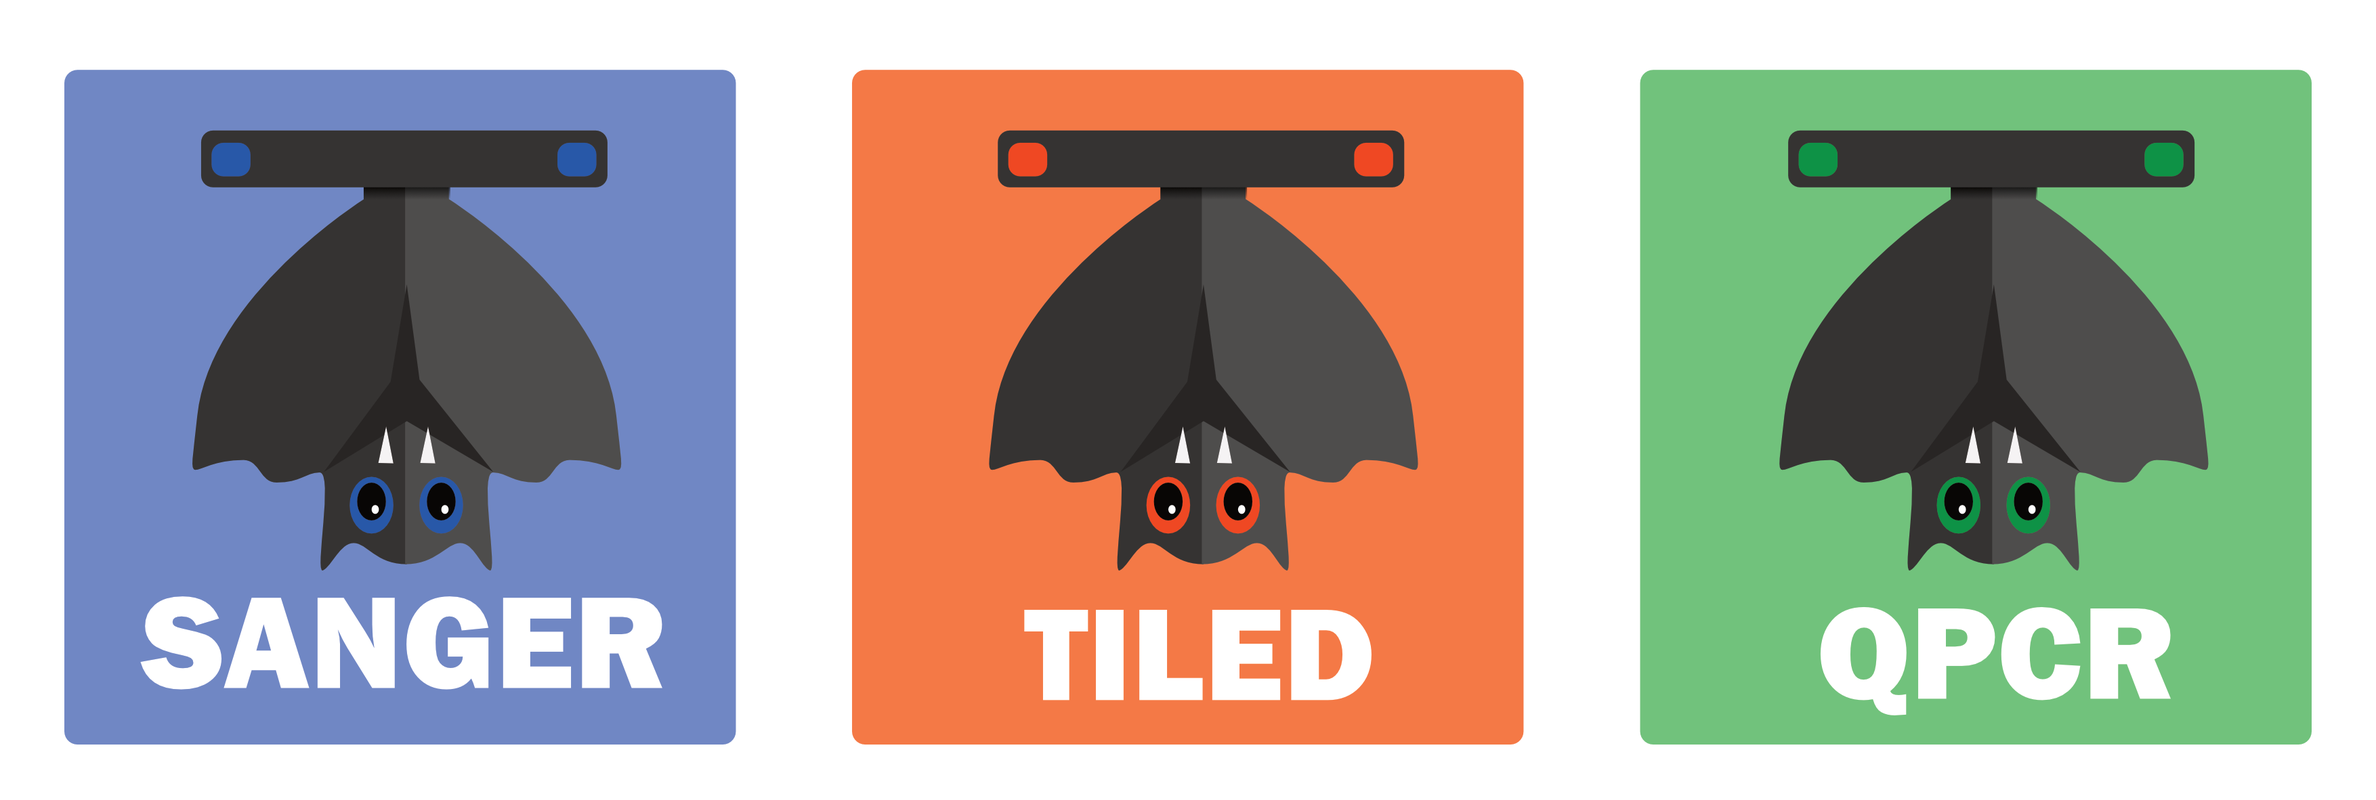
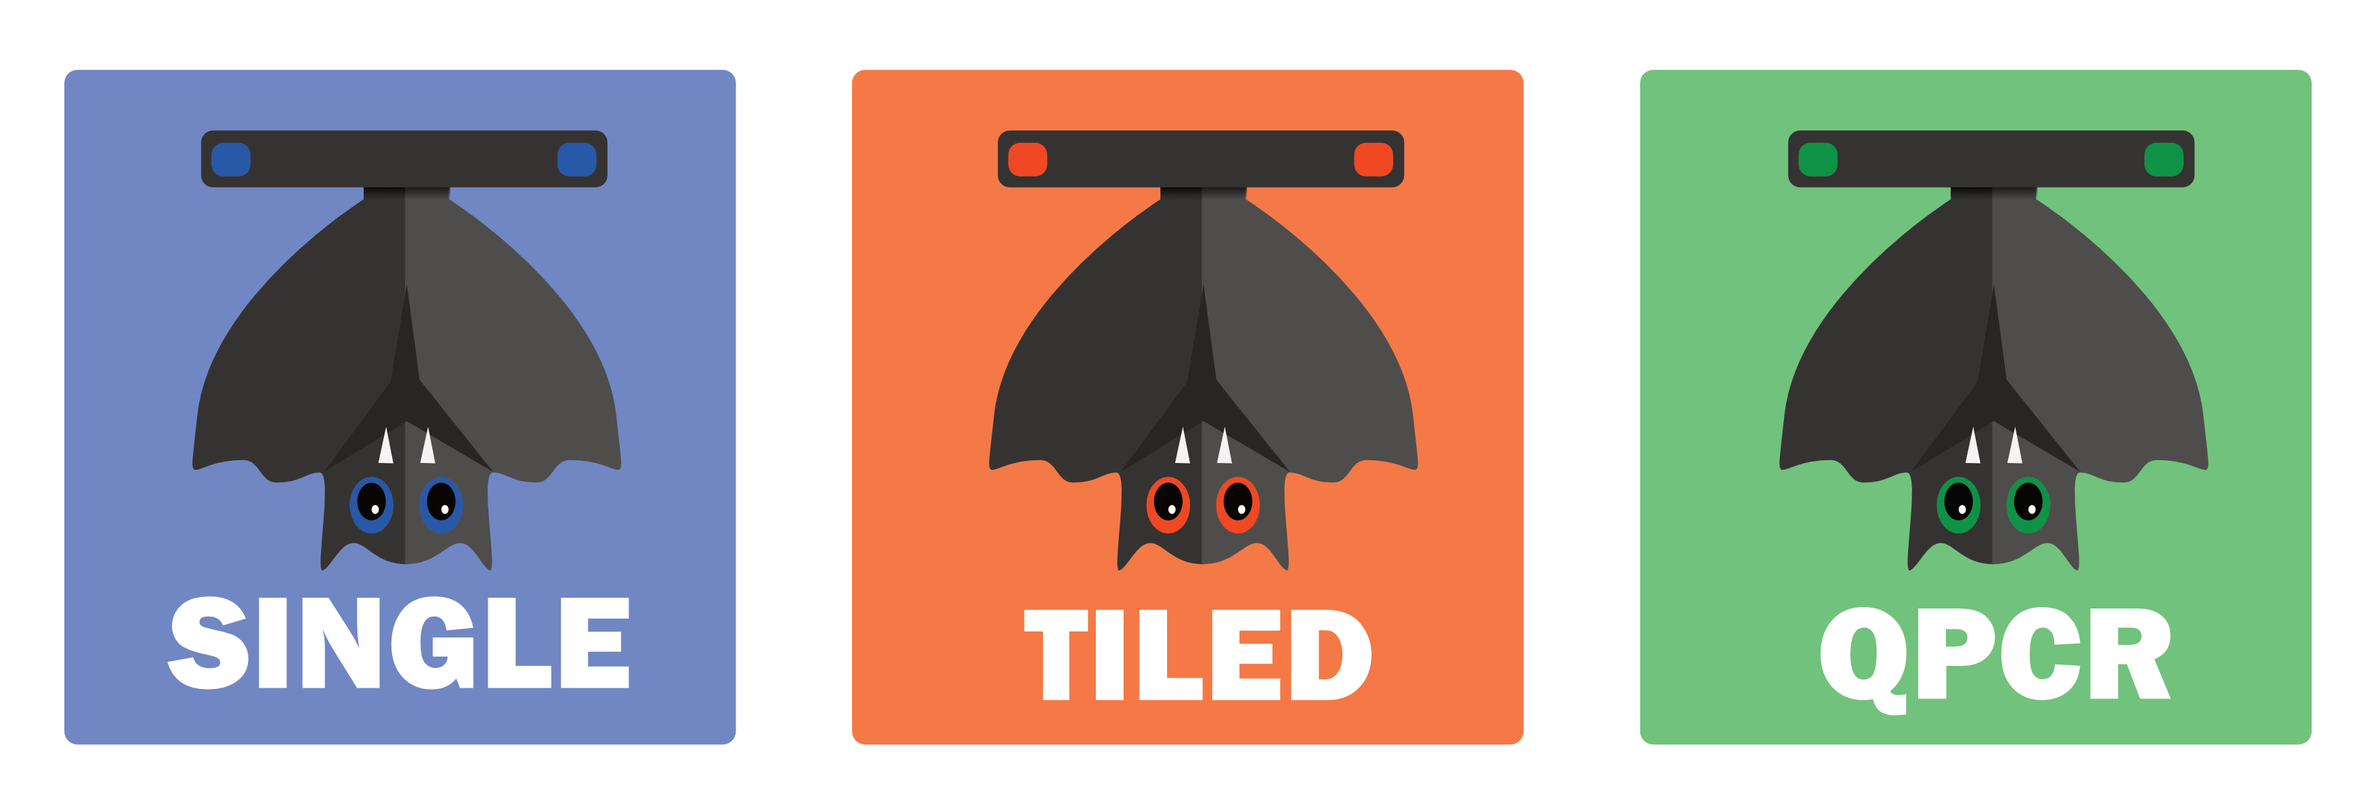
changed sanger to single (#25)

Changed region(s): [[0.0621, 0.731, 0.2796, 0.8832]]

diff --git a/varvamp/command.py b/varvamp/command.py
@@ -36,10 +36,10 @@ def get_args(sysargs):
         title="varvamp mode",
         dest="mode",
     )
-    SANGER_parser = mode_parser.add_parser(
-        "sanger",
-        help="design primers for sanger sequencing",
-        usage="varvamp sanger [optional arguments] <alignment> <output dir>"
+    SINGLE_parser = mode_parser.add_parser(
+        "single",
+        help="design primers for single amplicons",
+        usage="varvamp single [optional arguments] <alignment> <output dir>"
     )
     TILED_parser = mode_parser.add_parser(
         "tiled",
@@ -56,7 +56,7 @@ def get_args(sysargs):
         nargs=2,
         help="alignment file and dir to write results"
     )
-    for par in (SANGER_parser, TILED_parser, QPCR_parser):
+    for par in (SINGLE_parser, TILED_parser, QPCR_parser):
         par.add_argument(
             "-t",
             "--threshold",
@@ -89,7 +89,7 @@ def get_args(sysargs):
             type=int,
             default=1
         )
-    for par in (SANGER_parser, TILED_parser):
+    for par in (SINGLE_parser, TILED_parser):
         par.add_argument(
             "-ol",
             "--opt-length",
@@ -114,7 +114,7 @@ def get_args(sysargs):
         default=100,
         help="min overlap of the amplicons"
     )
-    SANGER_parser.add_argument(
+    SINGLE_parser.add_argument(
         "-n",
         "--report-n",
         type=int,
@@ -275,9 +275,9 @@ def shared_workflow(args, log_file):
     return alignment_cleaned, majority_consensus, ambiguous_consensus, primer_regions, left_primer_candidates, right_primer_candidates
 
 
-def sanger_and_tiled_shared_workflow(args, left_primer_candidates, right_primer_candidates, data_dir, log_file):
+def single_and_tiled_shared_workflow(args, left_primer_candidates, right_primer_candidates, data_dir, log_file):
     """
-    part of the workflow shared by the sanger and tiled mode
+    part of the workflow shared by the single and tiled mode
     """
 
     # find best primers and create primer dict
@@ -321,7 +321,7 @@ def sanger_and_tiled_shared_workflow(args, left_primer_candidates, right_primer_
             args.max_length,
             args.threads,
             log_file,
-            mode="sanger_tiled"
+            mode="single_tiled"
         )
     else:
         off_target_amplicons = []
@@ -329,12 +329,12 @@ def sanger_and_tiled_shared_workflow(args, left_primer_candidates, right_primer_
     return all_primers, amplicons, off_target_amplicons
 
 
-def sanger_workflow(args, amplicons, all_primers, log_file):
+def single_workflow(args, amplicons, all_primers, log_file):
     """
-    workflow part specific for sanger mode
+    workflow part specific for single mode
     """
 
-    amplicon_scheme = scheme.find_sanger_amplicons(amplicons, all_primers, args.report_n)
+    amplicon_scheme = scheme.find_single_amplicons(amplicons, all_primers, args.report_n)
     logging.varvamp_progress(
         log_file,
         progress=0.9,
@@ -503,17 +503,17 @@ def main(sysargs=sys.argv[1:]):
     reporting.write_fasta(data_dir, "majority_consensus", majority_consensus)
     reporting.write_fasta(results_dir, "ambiguous_consensus", ambiguous_consensus)
 
-    # SANGER/TILED mode
-    if args.mode == "tiled" or args.mode == "sanger":
-        all_primers, amplicons, off_target_amplicons = sanger_and_tiled_shared_workflow(
+    # SINGLE/TILED mode
+    if args.mode == "tiled" or args.mode == "single":
+        all_primers, amplicons, off_target_amplicons = single_and_tiled_shared_workflow(
             args,
             left_primer_candidates,
             right_primer_candidates,
             data_dir,
             log_file
         )
-        if args.mode == "sanger":
-            amplicon_scheme = sanger_workflow(
+        if args.mode == "single":
+            amplicon_scheme = single_workflow(
                 args,
                 amplicons,
                 all_primers,

diff --git a/varvamp/scripts/logging.py b/varvamp/scripts/logging.py
@@ -113,7 +113,7 @@ def raise_arg_errors(args, log_file):
                 log_file,
                 exit=True
             )
-    if args.mode in ("tiled", "sanger"):
+    if args.mode in ("tiled", "single"):
         if args.opt_length > args.max_length:
             raise_error(
                 "optimal length can not be higher than the maximum amplicon length.",
@@ -126,8 +126,8 @@ def raise_arg_errors(args, log_file):
                 log_file,
                 exit=True
             )
-    # SANGER specific warnings
-    if args.mode == "sanger":
+    # SINGLE specific warnings
+    if args.mode == "single":
         if args.report_n < 1:
             raise_error(
                 "number of reported amplicons cannot be below 1.",
@@ -252,7 +252,7 @@ def confirm_config(args, log_file):
 
     # check if all variables exists
     all_vars = [
-        # arg independent TILED, SANGER mode
+        # arg independent TILED, SINGLE mode
         (
             "PRIMER_TMP",
             "PRIMER_GC_RANGE",
@@ -512,7 +512,7 @@ def confirm_config(args, log_file):
             sep="\n",
             file=f
         )
-        if args.mode in ("tiled", "sanger"):
+        if args.mode in ("tiled", "single"):
             print(
                 f"AMPLICON_OPT_LENGTH = {args.opt_length}",
                 f"AMPLICON_MAX_LENGTH = {args.max_length}",
@@ -532,7 +532,7 @@ def confirm_config(args, log_file):
                 sep="\n",
                 file=f
             )
-        if args.mode == "sanger":
+        if args.mode == "single":
             print(
                 f"REPORT_N_AMPLICONS = {args.report_n}",
                 sep="\n",
@@ -553,7 +553,7 @@ def confirm_config(args, log_file):
         )
         for var in all_vars[0]:
             print(f"{var} = {var_dic[var]}", file=f)
-        if args.mode in ("tiled", "sanger"):
+        if args.mode in ("tiled", "single"):
             if args.database is not None:
                 for var in all_vars[2]:
                     print(f"{var} = {var_dic[var]}", file=f)

diff --git a/varvamp/scripts/reporting.py b/varvamp/scripts/reporting.py
@@ -227,7 +227,7 @@ def write_scheme_to_files(path, amplicon_scheme, ambiguous_consensus, mode):
         )
 
         for pool in amplicon_scheme:
-            if mode == "sanger":
+            if mode == "single":
                 primer_fasta_file = os.path.join(path, "primers.fasta")
             else:
                 primer_fasta_file = os.path.join(path, f"primers_pool_{pool}.fasta")
@@ -244,7 +244,7 @@ def write_scheme_to_files(path, amplicon_scheme, ambiguous_consensus, mode):
                     # write amplicon bed
                     if mode == "tiled":
                         bed_score = pool
-                    elif mode == "sanger":
+                    elif mode == "single":
                         bed_score = round(left[1][3] + right[1][3], 1)
                     print(
                         "ambiguous_consensus",
@@ -509,9 +509,9 @@ def varvamp_plot(path, alignment_cleaned, primer_regions, all_primers=None, ampl
     plt.close()
 
 
-def get_SANGER_TILED_primers_for_plot(amplicon_scheme):
+def get_SINGLE_TILED_primers_for_plot(amplicon_scheme):
     """
-    get the primers for per base pair plot (sanger, tiled)
+    get the primers for per base pair plot (single, tiled)
     """
     amplicon_primers = []
 
@@ -542,13 +542,13 @@ def get_QPCR_primers_for_plot(amplicon_schemes):
     return amplicon_primers
 
 
-def per_base_mismatch_plot(path, amplicon_scheme, threshold, mode="SANGER/TILED"):
+def per_base_mismatch_plot(path, amplicon_scheme, threshold, mode="SINGLE/TILED"):
     """
     per base pair mismatch multiplot
     """
     out = os.path.join(path, "per_base_mismatches.pdf")
-    if mode == "SANGER/TILED":
-        amplicon_primers = get_SANGER_TILED_primers_for_plot(amplicon_scheme)
+    if mode == "SINGLE/TILED":
+        amplicon_primers = get_SINGLE_TILED_primers_for_plot(amplicon_scheme)
     elif mode == "QPCR":
         amplicon_primers = get_QPCR_primers_for_plot(amplicon_scheme)
     # ini multi pdf

diff --git a/varvamp/scripts/blast.py b/varvamp/scripts/blast.py
@@ -31,7 +31,7 @@ def check_BLAST_installation(log_file):
 
 def create_BLAST_query(all_primers, amplicons, data_dir):
     """
-    create a query for the BLAST search (tiled, sanger mode)
+    create a query for the BLAST search (tiled, single mode)
     """
     already_written = []
 
@@ -168,7 +168,7 @@ def predict_non_specific_amplicons_worker(amp, blast_df, max_length, mode):
     """
     name, data = amp
     # get correct primers
-    if mode == "sanger_tiled":
+    if mode == "single_tiled":
         primers = [data[2], data[3]]
     elif mode == "qpcr":
         primers = []
@@ -198,7 +198,7 @@ def predict_non_specific_amplicons(amplicons, blast_df, max_length, mode, n_thre
         if off_target is None:
             continue
         off_targets.append(off_target)
-        if mode == "sanger_tiled":
+        if mode == "single_tiled":
             amplicons[off_target][5] = amplicons[off_target][5] + config.BLAST_PENALTY
         elif mode == "qpcr":
             amplicons[off_target]["penalty"][0] = amplicons[off_target]["penalty"][0] + config.BLAST_PENALTY
@@ -208,7 +208,7 @@ def predict_non_specific_amplicons(amplicons, blast_df, max_length, mode, n_thre
 
 def primer_blast(data_dir, db, query_path, amplicons, max_length, n_threads, log_file, mode):
     """
-    performs the blast search for the sanger or tiled workflow
+    performs the blast search for the single or tiled workflow
     """
     print("\n#### Starting varVAMP primerBLAST. ####\n")
     print("Running BLASTN...")

diff --git a/varvamp/scripts/scheme.py b/varvamp/scripts/scheme.py
@@ -381,10 +381,10 @@ def check_and_solve_heterodimers(amplicon_scheme, left_primer_candidates, right_
     return primer_dimers
 
 
-def find_sanger_amplicons(amplicons, all_primers, n):
+def find_single_amplicons(amplicons, all_primers, n):
     """
     find non-overlapping amplicons with low penalties
-    from all found amplicons. only for the SANGER mode.
+    from all found amplicons. only for the SINGLE mode.
     """
     # sort amplicons
     sorted_amplicons = sorted(amplicons.items(), key=lambda x: x[1][5])

diff --git a/varvamp/__init__.py b/varvamp/__init__.py
@@ -1,3 +1,3 @@
 """Tool to design amplicons for highly variable virusgenomes"""
 _program = "varvamp"
-__version__ = "1.0"
+__version__ = "1.0.1"

diff --git a/docs/output.md b/docs/output.md
@@ -13,9 +13,9 @@ varVAMP produces multiple main output files:
 | ALL          | varvamp_log.txt                        | Log file.                                                                                                                                                                                                                                                                |
 | TILED        | unsolvable_primer_dimers.tsv           | Only produced if there are primer dimers without replacements. Tells which primers form dimers and at which temperature.                                                                                                                                                 |
 | TILED        | primers_pool_0/1.fasta                 | Primer sequences per pool in fasta format.                                                                                                                                                                                                                               |
-| SANGER       | primers.fasta                          | Primer sequences in fasta format.                                                                                                                                                                                                                                        |
-| TILED/SANGER | primer_to_amplicon_assignments.tabular | Simple tab separated file, which primers belong together. Useful for bioinformatic workflows that include primer trimming                                                                                                                                                |
-| TILED/SANGER | primer.tsv                             | A tab separated file with important parameters for the primers including the sequence with ambiguous nucleotides (already in the right strand) and the gc and temperature of the best fitting primer as well as for the mean for all permutations of the primer.         |
+| SINGLE       | primers.fasta                          | Primer sequences in fasta format.                                                                                                                                                                                                                                        |
+| TILED/SINGLE | primer_to_amplicon_assignments.tabular | Simple tab separated file, which primers belong together. Useful for bioinformatic workflows that include primer trimming                                                                                                                                                |
+| TILED/SINGLE | primer.tsv                             | A tab separated file with important parameters for the primers including the sequence with ambiguous nucleotides (already in the right strand) and the gc and temperature of the best fitting primer as well as for the mean for all permutations of the primer.         |
 | QPCR         | qpcr_design.tsv                        | A tab separated file with important parameters for the qPCR amplicon including the deltaG.                                                                                                                                                                               |
 | QPCR         | qpcr_primers.tsv                       | A tab separated file with important parameters for the primers  and probes including the sequence with ambiguous nucleotides (already in the right strand) and the gc and temperature of the best fitting primer and probe as well as for the mean for all permutations. |
 | QPCR         | oligos.fasta                           | Oligo sequences in fasta format.                                                                                                                                                                                                                                         |
@@ -23,12 +23,12 @@ varVAMP produces multiple main output files:
 
 It also produces some secondary output files in `data` :
 
-| Mode | Output | Description |
-| --- | --- | --- |
-| ALL | alignment_cleaned | The preprocessed alignment. |
-| ALL | majority_consensus.fasta | Consensus sequence that does not have ambiguous characters but instead has the most prevalent nucleotide at each position. |
-| ALL | primer_regions.bed | A bed file showing the location of the potential regions of the consensus sequence that were evaluated for primers. |
-| TILED/SANGER | all_primers.bed | A bed file with all high scoring primers that varVAMP found. |
-| qPCR | probe_regions.bed | A bed file showing the location of the potential regions of the consensus sequence that were evaluated for probes. |
+| Mode         | Output | Description |
+|--------------| --- | --- |
+| ALL          | alignment_cleaned | The preprocessed alignment. |
+| ALL          | majority_consensus.fasta | Consensus sequence that does not have ambiguous characters but instead has the most prevalent nucleotide at each position. |
+| ALL          | primer_regions.bed | A bed file showing the location of the potential regions of the consensus sequence that were evaluated for primers. |
+| TILED/SINGLE | all_primers.bed | A bed file with all high scoring primers that varVAMP found. |
+| qPCR         | probe_regions.bed | A bed file showing the location of the potential regions of the consensus sequence that were evaluated for probes. |
 
 #### [Previous: Usage](./usage.md)&emsp;&emsp;[Next: Wet lab protocol](./wet_lab_protocol.md)

diff --git a/docs/how_varvamp_works.md b/docs/how_varvamp_works.md
@@ -23,7 +23,7 @@ varVAMP searches for potential primer regions as defined by a user-defined numbe
 varVAMP uses [`primer3-py`](https://pypi.org/project/primer3-py/) to search for potential primers. Some of the evaluation process, determining if primers match certain criteria, was adapted from [`primalscheme`](www.github.com/aresti/primalscheme). The primer search contains multiple steps:
 1. Digest the primer regions into kmers with the min and max length of primers. This is performed on a consensus sequence that does not contain ambiguous characters but is just the majority consensus of the alignment. Therefore, primer parameters will be later calculated for the best fitting primer.
 2. Evaluate if these kmers are potential primers independent of their orientation (temperature, GC, size, poly-x repeats and poly dinucleotide repeats) and dependent on their orientation (secondary structure, GC clamp, number of GCs in the last 5 bases of the 3' end and min 3' nucleotides without an ambiguous base). Filter for kmers that satisfy all constraints and calculate their penalties (explained in the last section).
-3. Sanger and tiled mode: Find primer with the lowest penalty. varVAMP sorts the primers by their penalty and always takes one with the lowest penalty if middle third of the primer has not been covered by a primer with a lower penalty. This greatly reduces the complexity of the later amplicon search while only retaining the best primer of a set of overlapping primers.
+3. Single and tiled mode: Find primer with the lowest penalty. varVAMP sorts the primers by their penalty and always takes one with the lowest penalty if middle third of the primer has not been covered by a primer with a lower penalty. This greatly reduces the complexity of the later amplicon search while only retaining the best primer of a set of overlapping primers.
 
 ### Amplicon search
 
@@ -37,7 +37,7 @@ To search for the best amplicon, varVAMP uses a graph based approach.
 6. Repeat steps 3-5 for each start node until the best coverage is reached. Voila! We have the best amplicon scheme with the lowest cumulative primer penalties in respect to the amplicon length!
 7. Lastly, the best scheme is evaluated for primer dimers in their respective pools. If a primer dimer pair is found, varVAMP evaluates for each primer their overlapping and previously not considered primers (primer search step 2) and again minimizes the penalty. The scheme and all primers are updated. If no alternative primers can be found, varVAMP issues a warning and reports the unsolvable primer dimers.
 
-#### Sanger sequencing
+#### Single amplicons
 1. varVAMP sorts all amplicons by their penalties and takes the non-overlapping amplicon with the lowest penalty!
 2. As varVAMP gives a size penalty to amplicons, varVAMP automatically finds amplicons with low primer penalties close to your optimal length (if possible).
 

diff --git a/docs/FAQ.md b/docs/FAQ.md
@@ -16,7 +16,7 @@ The most easy way is to set the number of ambiguous characters you can tolerate 
 
 In your case varVAMP could not find suitable replacement primers in the TILED mode. You can either rerun varVAMP and try different settings or you can perform a third pool that contains a amplicon that has one of the conflicting dimers. Notably, varVAMP also reports the dimer melting temperature. If it is still reasonable low, using a hot start polymerase might still lead to successful PCR amplification.
 
-4. **I have multiple hits after SANGER/QPCR mode. Which should I use?**
+4. **I have multiple hits after SINGLE/QPCR mode. Which should I use?**
 
 varVAMP sorts all amplicons and qpcr designs by their penalty and always assigns the lowest number to the one with the lowest penalty of the non-overlapping amplicons/qpcr schemes. If you are not interested in a specific gene region, amplicon_0 or qpcr_scheme_0  are your best candidates!
 
@@ -38,7 +38,7 @@ The coverage is estimated on an alignment that still has gaps. If there are a lo
 
 9. **How fast is varVAMP?**
 
-varVAMP is pretty fast given the complexity of the problem. Running time is depended on the alignment length, number of sequences and the running mode. While the TILED is rather slow, qPCR and SANGER can be faster. An alignment with a few hundred sequences and with a genome size of 10 kb will likely run in under a minute for the TILED mode. For large e.g. DNA viruses (200 kb) it takes considerably longer, but should still finish in minutes. Running time optimizations are planned.
+varVAMP is pretty fast given the complexity of the problem. Running time is depended on the alignment length, number of sequences and the running mode. While the TILED is rather slow, qPCR and SINGLE can be faster. An alignment with a few hundred sequences and with a genome size of 10 kb will likely run in under a minute for the TILED mode. For large e.g. DNA viruses (200 kb) it takes considerably longer, but should still finish in minutes. Running time optimizations are planned.
 
 10. **Can I contribute?**
 

diff --git a/README.md b/README.md
@@ -17,9 +17,9 @@ For a lot of virus genera it is difficult to design pan-specific primers. varVAM
 
 <img src="https://github.com/jonas-fuchs/varVAMP/blob/master/docs/varvamp.png" alt="varVAMP logo" />
 
-**SANGER**: varVAMP searches for the very best primers and reports back non-overlapping amplicons which can be used for PCR-based screening approaches.
+**SINGLE**: varVAMP searches for the very best primers and reports back non-overlapping amplicons which can be used for PCR-based screening approaches.
 
-<img src="https://github.com/jonas-fuchs/varVAMP/blob/master/docs/sanger.png" alt="sanger" />
+<img src="https://github.com/jonas-fuchs/varVAMP/blob/master/docs/single.png" alt="single" />
 
 **TILED**: varVAMP uses a graph based approach to design overlapping amplicons that tile the entire viral genome. This designs amplicons that are suitable for Oxford Nanopore or Illumina based full-genome sequencing.
 

diff --git a/docs/usage.md b/docs/usage.md
@@ -26,15 +26,15 @@ optional arguments:
   -v, --version         show program's version number and exit
 
 varvamp mode:
-  {sanger,tiled,qpcr}
-    sanger              design primers for sanger sequencing
+  {single,tiled,qpcr}
+    single              design primers for single amplicons
     tiled               design primers for whole genome sequencing
     qpcr                design qPCR primers
 
 ```
-**sanger** mode:
+**single** mode:
 ```shell
-usage: varvamp sanger [optional arguments] <alignment> <output dir>
+usage: varvamp single [optional arguments] <alignment> <output dir>
 ```
 ```
 optional arguments:
